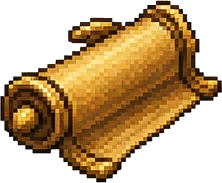
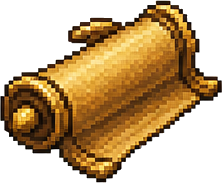
WebP 后续：逐张验完整性 + UI 图标改无损（RMS 归零，代价 +655KB）
逐张对账（写脚本从 git 取回全部原图，不靠肉眼）：
- 透明通道：原图 88 张 RGBA，其中 66 张真有透明像素、全部保住；另 22 张 alpha 全为
  255（完全不透明），被编码器省掉通道属正确优化，不是丢失
- 尺寸：零变化
- 画质：用"按 alpha 合成到同一底色再算 RMS"衡量。直接 convert(RGB) 比会把全透明
  像素那段无意义的 RGB 也算进去，先前得出 RMS 100 的假警报
- 顺带记一笔：转换脚本里 `A if B and C or D else E` 的优先级会让 LA 模式（灰度+
  透明）被压成 RGB。实际原图分布 RGB:30 / RGBA:88、无一张 LA，未触发；记下来免得
  后人重蹈

UI 图标改无损：
首轮全用 quality=85，事后测出差异最大的 18 张全是 stones/ui/ 下的小图标
（coin/btn_close/burst 等，约 200x200），RMS 5~7——小尺寸硬边缘最吃有损压缩的亏。
改 lossless 后 RMS 全部归零（像素级一致），代价仅 +655KB。

判据收紧为"路径含 /ui/ 且面积 ≤256²"。先前试过"原图<150KB"，圈进 79 张、体积暴涨
19.5MB，那就把转 webp 的意义整个抵消了。

最终：图片资源 99.9MB→11.2MB（省 89%），dist 14MB，全库平均 RMS 2.52、最大 5.33、
超过 8 的零张。vitest 189/189、build 通过、产物 126 张全 webp、非 favicon 的
png/jpg 零残留。

diff --git a/src/version.js b/src/version.js
@@ -12,7 +12,9 @@ export const VERSION_HISTORY = [
     codename: "全部图片转 WebP（100MB→10.6MB，省89%）；审计 sys 组装与 MVU 接线，补上心灵之海的场景铁律",
     time: "2026-07-28 02:40",
     notes: [
-      "①【图片全转 WebP】126 张 png/jpg 转 webp，99.9MB→10.6MB（省 89%），dist 从 ~102MB 降到 13MB。favicon 保持原格式不动（浏览器兼容性，且体积本来就小）。风险不在转换而在漏改引用——图片路径散在静态 import、运行时拼接模板（如 bidders/full/${name}.png）、index.html 三处，共改 83 处，改完写脚本全量反查\"引用了但磁盘上没有\"，确认零残留。",
+      "①【图片全转 WebP】126 张 png/jpg 转 webp，99.9MB→11.2MB（省 89%），dist 从 ~102MB 降到 14MB。favicon 保持原格式不动（浏览器兼容性，且体积本来就小）。风险不在转换而在漏改引用——图片路径散在静态 import、运行时拼接模板（如 bidders/full/${name}.png）、index.html 三处，共改 83 处，改完写脚本全量反查\"引用了但磁盘上没有\"，确认零残留。",
+      "①-2【逐张验完整性，不靠肉眼】写脚本从 git 取回全部原图逐张对账：①透明通道——原图 88 张 RGBA，其中 66 张真有透明像素、全部保住；另 22 张 alpha 全为 255（完全不透明），被编码器省掉通道属正确优化，非丢失。②尺寸零变化。③画质用\"按 alpha 合成到同一底色再算 RMS\"衡量（直接 convert(RGB) 比会把全透明像素那段无意义的 RGB 也算进去，得出 RMS 100 的假警报）。④顺带：转换脚本里 A if B and C or D else E 的优先级会让 LA 模式（灰度+透明）被压成 RGB，实际原图分布 RGB:30/RGBA:88、无一张 LA，未触发；已在此记录以免后人重蹈。",
+      "①-3【UI 图标改无损】首轮全用 quality=85，事后测出差异最大的 18 张全是 stones/ui/ 下的小图标（coin/btn_close/burst 等，约 200x200），RMS 5~7——小尺寸硬边缘最吃有损压缩的亏。这批改成 lossless 后 RMS 全部归零（像素级一致），代价仅 +655KB。判据收紧为\"路径含 /ui/ 且面积 ≤256²\"：先前试过\"原图<150KB\"，圈进 79 张、暴涨 19.5MB，那就把转 webp 的意义抵消了。最终全库平均 RMS 2.52、最大 5.33、超过 8 的零张。",
       "②【顺带发现一处既有坏引用】反查抓到 OpeningSequence 的 /intro-1.jpg 与 /intro-2.jpg——这两个文件仓库里从来没有过，改之前就是坏引用（<img> 也没有 onError 兜底，缺图会显示破图图标）。已还原成 .jpg 不动它：给一个我无法验证的、本就不存在的文件悄悄改扩展名是不对的。要么补图、要么加兜底，等作者定。",
       "③【审计 sys 组装】用测试台真跑一遍各档组装，打出注入矩阵逐项核对。结论是接对了：MVU 说明书与禁写声明始终同进同出（禁写那条在 MVU_SYSTEM_INSTRUCTIONS 内部，不会走散），full有人✓/full无人✗（wantMvu 要求场上有人）/无人+GM✓（gm 强制）/move✗/settle无人✗/settle送礼与拜师✓/双调用散文✗（状态判定交提取层）——全部符合设计。文风也确认真的在随好感切（好感0→冷漠档、95→临界档）。13 位置落位正确：system 侧 main→worldInfoBefore→charDescription→charPersonality→scenario→worldInfoAfter→persona→authorsNote→exampleStart，user 侧 chatHistory→inChat→latestUser→phi(assistant)。",
       "④【测试台 fixture 的坑】actCall.test.js 里写的是 narrator: initialNarratorState——传的是函数本身而不是调用结果，所以 affection 一直是 undefined。这正是之前黄金快照里\"好感度 undefined/100\"的来源。审计脚本里已按 initialNarratorState() 传，旧 fixture 留待后续统一（它现在测的是\"好感度缺失\"这个兜底路径，本身也有价值，不急着改）。",
